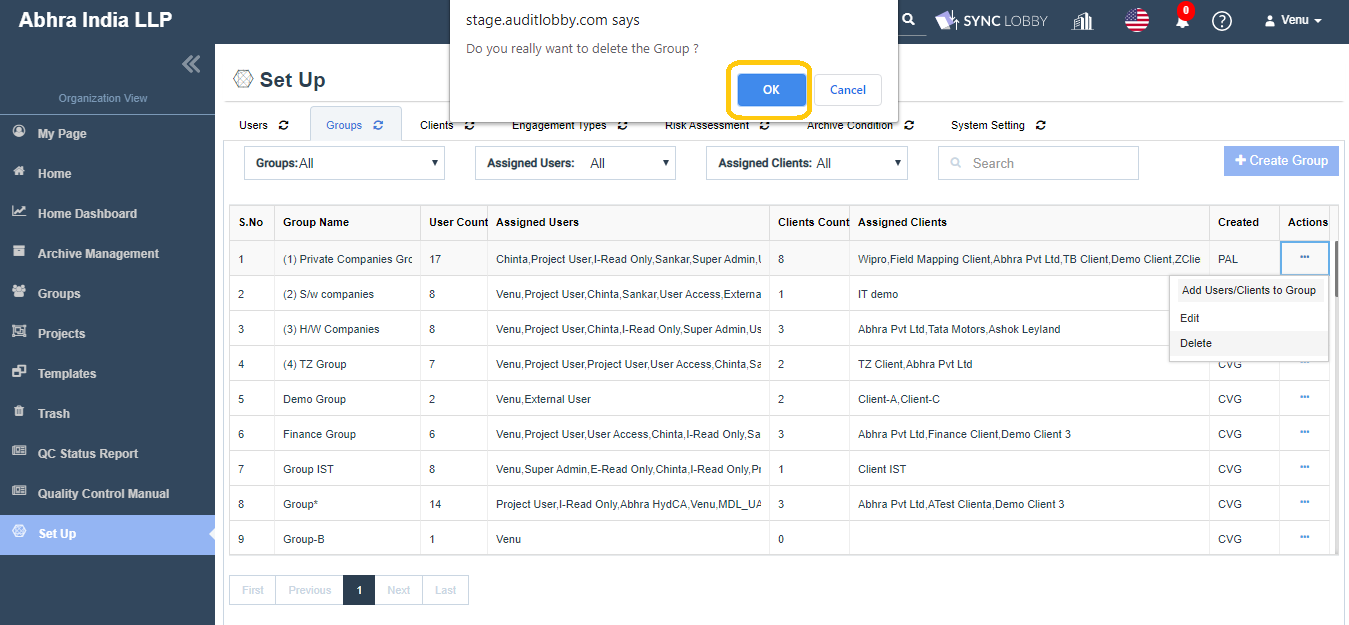
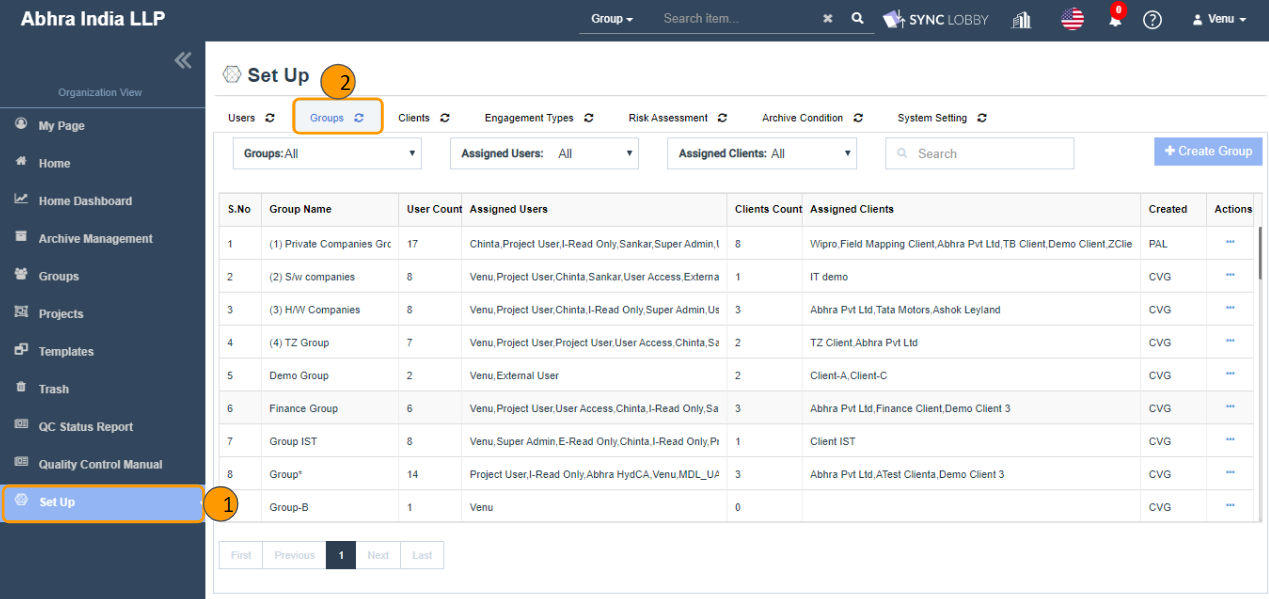
GitBook: [master] 6 pages and 3 assets modified

diff --git a/SUMMARY.md b/SUMMARY.md
@@ -55,7 +55,7 @@
     * [\(Venu/Done\)3. Client Registration / Edit / Delete](undefined-2/setup/add_clients/README.md)
       * [\(Venu/Done\)3-1. Editing Client ID/ Client Name](undefined-2/setup/add_clients/3-1.-id.md)
     * [\(Venu/Done\)4. Group Registration / Edit / Delete](undefined-2/setup/x.-group-1.md)
-    * [\(ENG\)5. Assigning / Unassigning User or Client to a Group](undefined-2/setup/5.-group/README.md)
+    * [\(Venu/Done\)5. Assigning / Unassigning User or Client to a Group](undefined-2/setup/5.-group/README.md)
       * [\(ENG\)5-1. Assigning / Unassigning User to/from a Group](undefined-2/setup/5.-group/5-1..md)
       * [\(ENG\)5-2. Assigning / Unassigning Client to/from a Group](undefined-2/setup/5.-group/5-2..md)
     * [\(ENG\)6. Engagement Type Registration / Edit / Delete](undefined-2/setup/x.-engagement-type.md)

diff --git a/undefined-2/setup/5.-group/README.md b/undefined-2/setup/5.-group/README.md
@@ -1,10 +1,10 @@
 ---
-description: How to assign / unassign users or clients to a group
+description: How to assign / unassign users or clients to a group.
 ---
 
-# \(ENG\)5. Assigning / Unassigning User or Client to a Group
+# \(Venu/Done\)5. Assigning / Unassigning User or Client to a Group
 
-Assigning and unassigning users or clients can be done in the 'Set Up' page from the Organization View menu. 
+Assigning and unassigning users or clients to Groups can be done in the 'Set Up' page from the Organization View menu. 
 
-![](../../../.gitbook/assets/a_4_0.jpg)
+![](../../../.gitbook/assets/groups%20%285%29.png)
 

diff --git a/undefined-2/setup/x.-group-1.md b/undefined-2/setup/x.-group-1.md
@@ -43,7 +43,7 @@ You can **create a group in the 'Set Up' menu** from the left navigation menu of
 6. Enter a new group name.
 7. Click the 'Update' to reflect changes.
 
-![](../../.gitbook/assets/groups%20%286%29.png)
+![](../../.gitbook/assets/groups%20%287%29.png)
 
 ![](../../.gitbook/assets/groups%20%281%29.png)
 
@@ -58,7 +58,7 @@ You can **create a group in the 'Set Up' menu** from the left navigation menu of
 
 ![](../../.gitbook/assets/groups%20%284%29.png)
 
-![](../../.gitbook/assets/groups%20%285%29.png)
+![](../../.gitbook/assets/groups%20%286%29.png)
 
 
 
